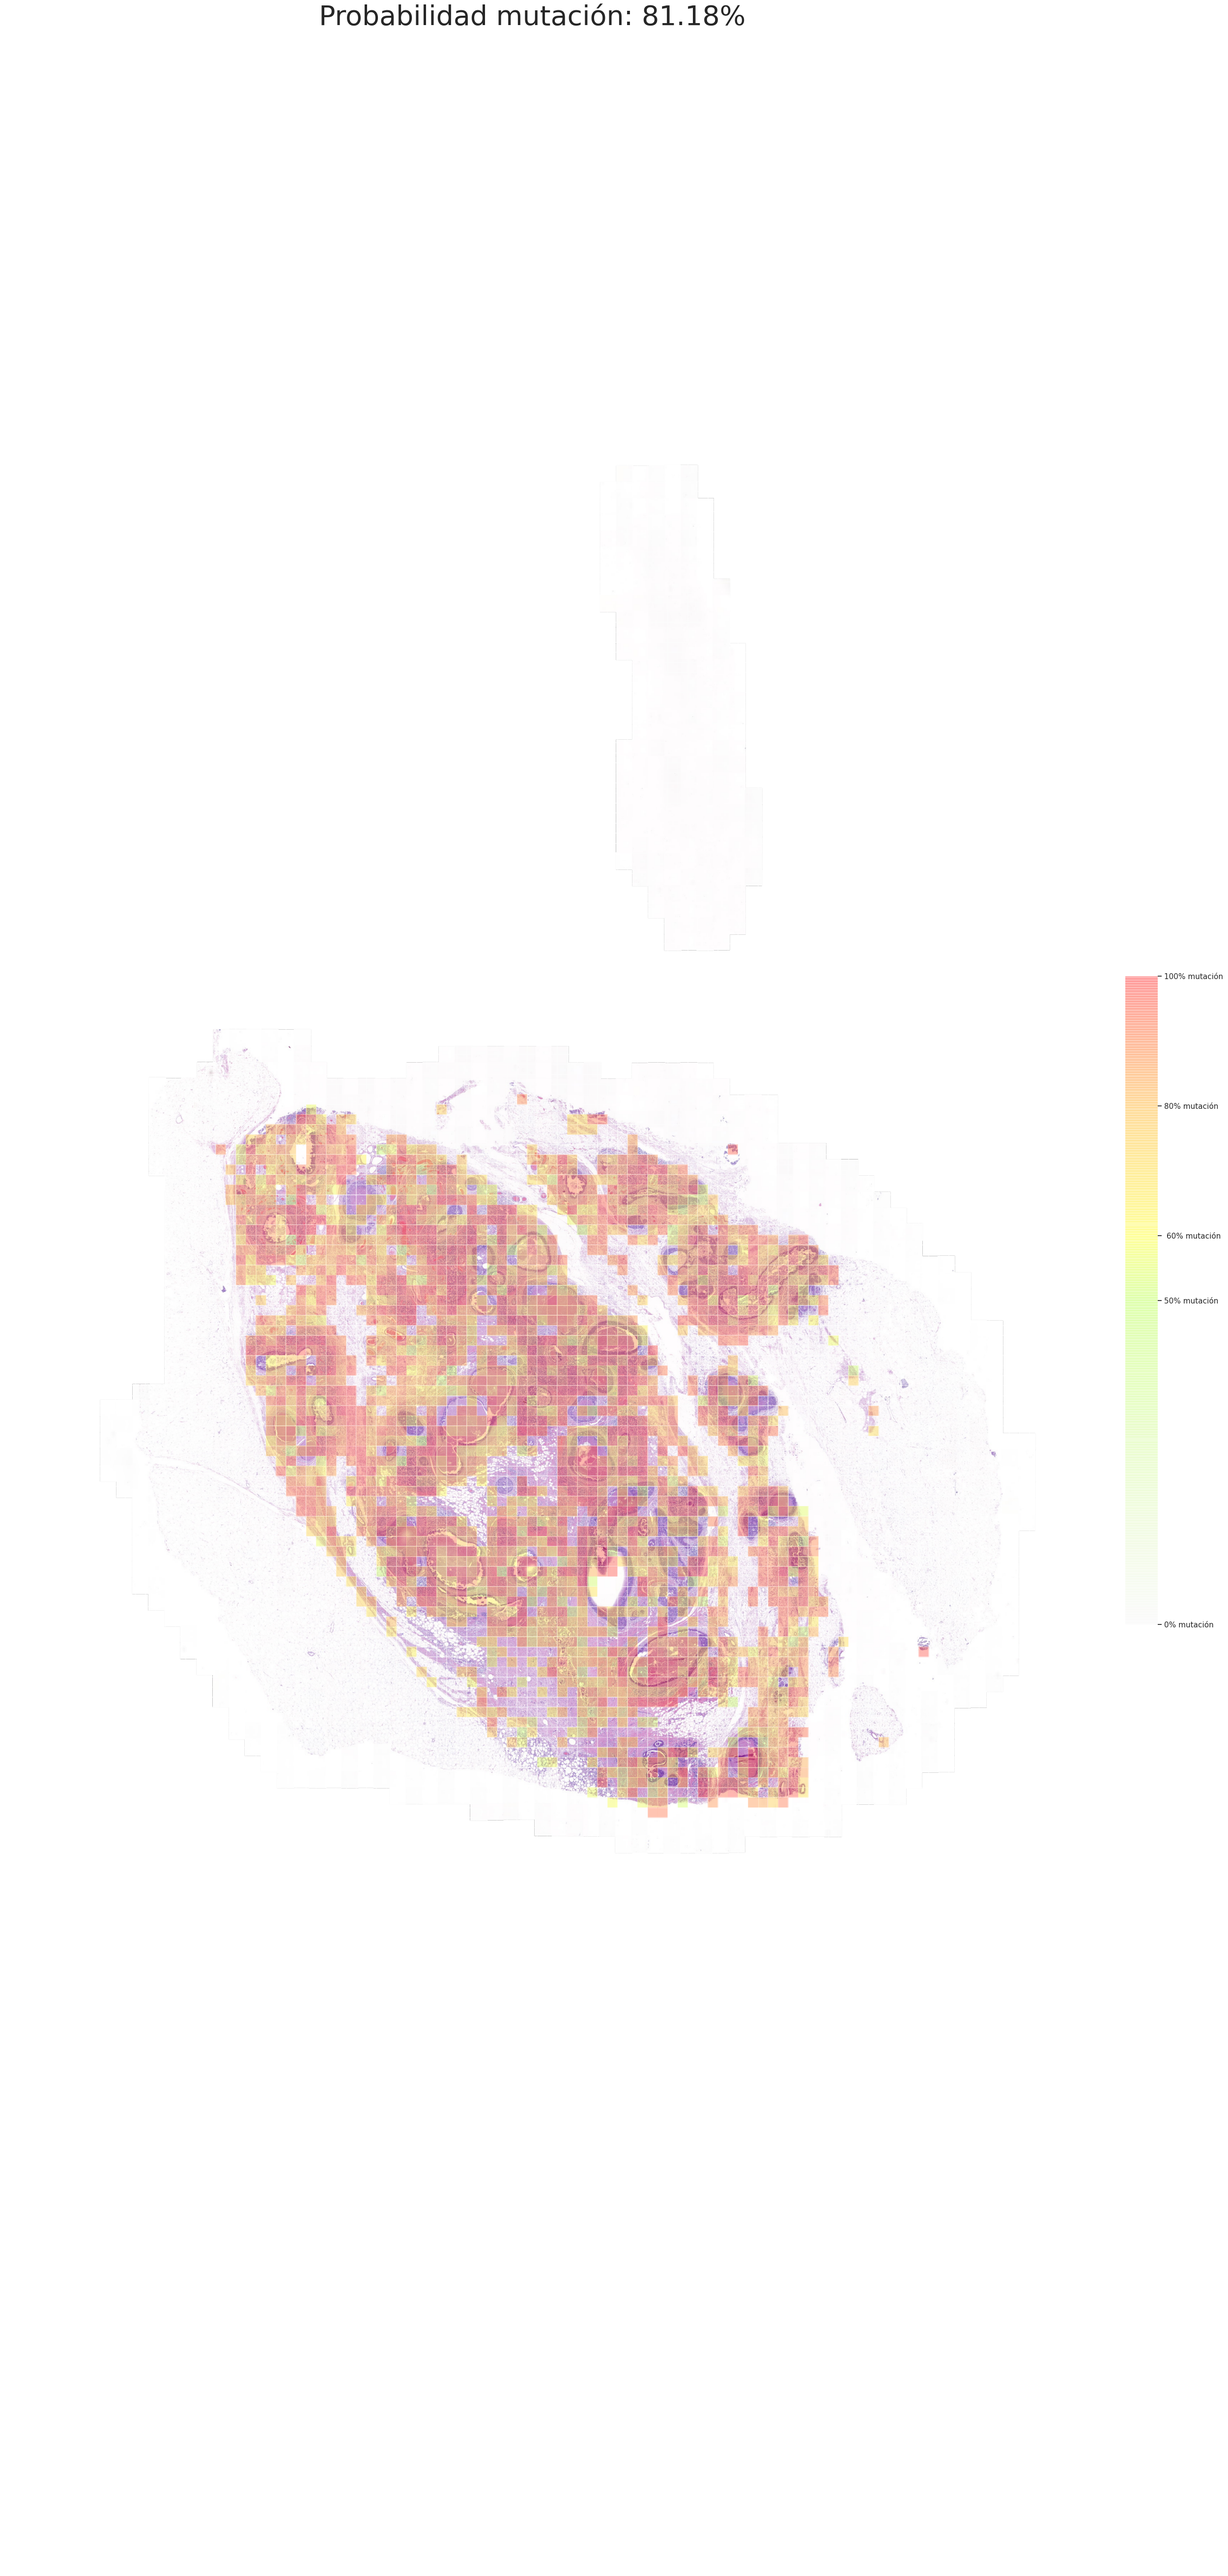
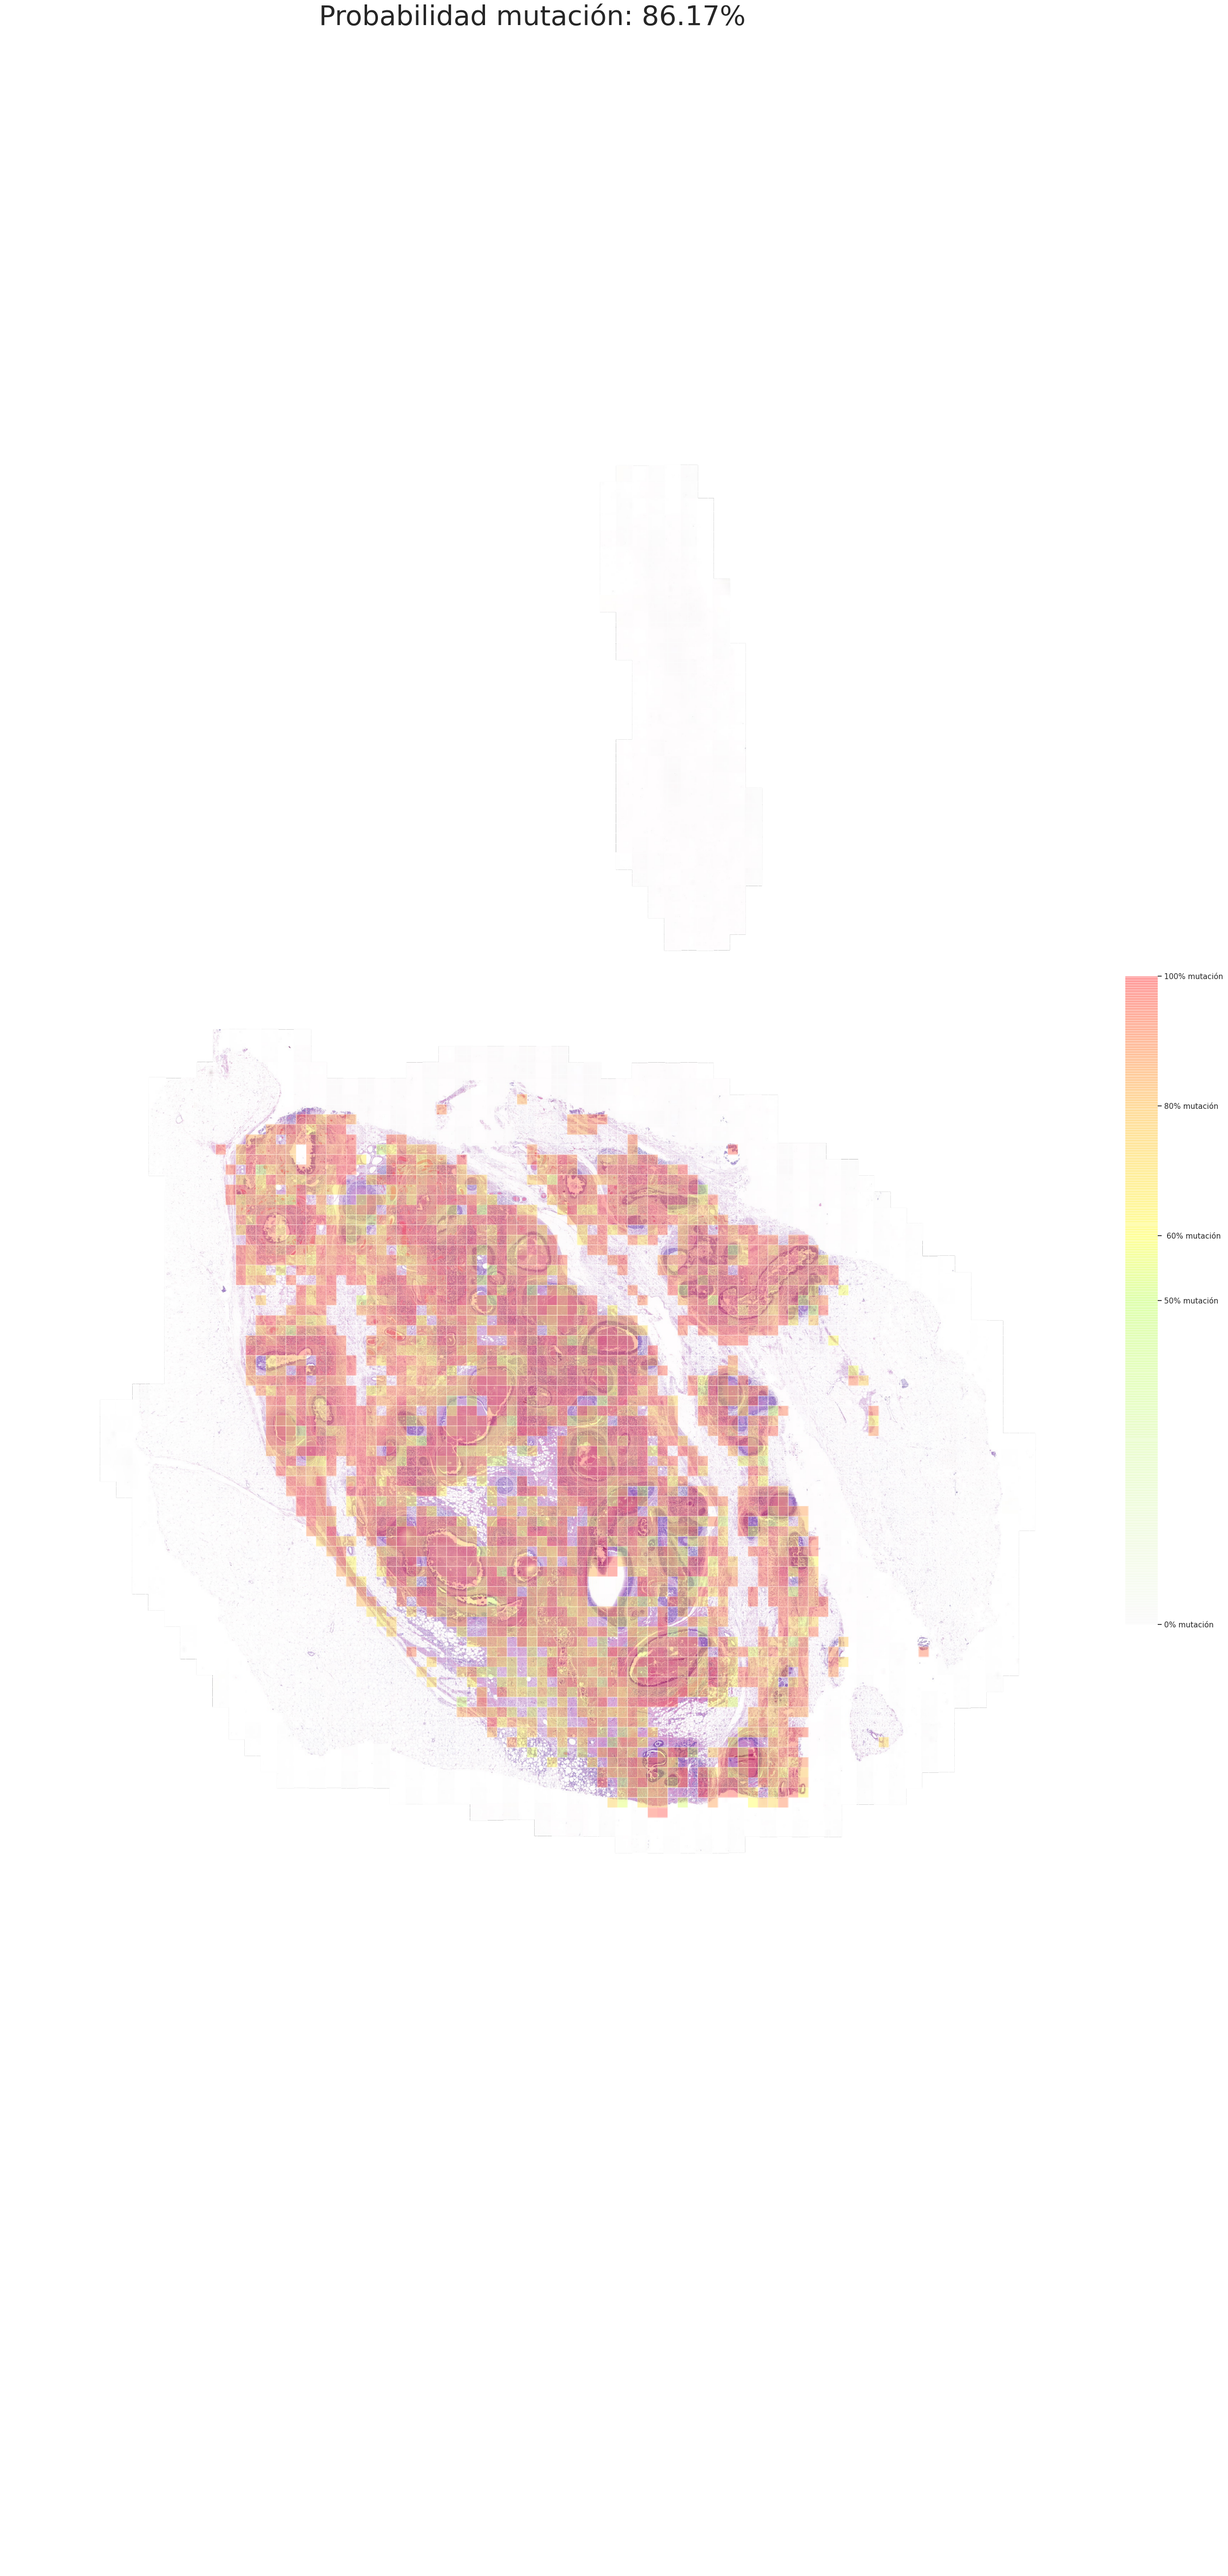
Mapas de calor corregidos.

diff --git a/mutations/image/CNV-D/BRCA/inference/codes/inibica[CNV-D BRCA]inference.py b/mutations/image/CNV-D/BRCA/inference/codes/inibica[CNV-D BRCA]inference.py
@@ -27,7 +27,7 @@ path = '/home/avalderas/img_slides/mutations/image/CNV-D/BRCA/inference/models/m
 model = load_model(path)
 
 """ Se abre WSI especificada y extraemos el paciente del que se trata """
-path_wsi = '/media/proyectobdpath/PI0032WEB/P158-HE-270-IX_v2.mrxs'
+path_wsi = '/media/proyectobdpath/PI0032WEB/P007-HE-140-A2_v2.mrxs'
 wsi = openslide.OpenSlide(path_wsi)
 patient_id = path_wsi.split('/')[4][:4]
 

diff --git a/mutations/image/CNV-A/ERBB2/inference/codes/inibica[CNV-A ERBB2]inference.py b/mutations/image/CNV-A/ERBB2/inference/codes/inibica[CNV-A ERBB2]inference.py
@@ -26,7 +26,7 @@ path = '/home/avalderas/img_slides/mutations/image/CNV-A/ERBB2/inference/models/
 model = load_model(path)
 
 """ Se abre WSI especificada y extraemos el paciente del que se trata """
-path_wsi = '/media/proyectobdpath/PI0032WEB/P005-HE-047-6_v2.mrxs'
+path_wsi = '/media/proyectobdpath/PI0032WEB/P020-HE-331-8_v2.mrxs'
 wsi = openslide.OpenSlide(path_wsi)
 patient_id = path_wsi.split('/')[4][:4]
 

diff --git a/mutations/image/SNV/TP53/inference/codes/inibica[SNV TP53]inference.py b/mutations/image/SNV/TP53/inference/codes/inibica[SNV TP53]inference.py
@@ -28,7 +28,7 @@ path = '/home/avalderas/img_slides/mutations/image/SNV/TP53/inference/models/mod
 model = load_model(path)
 
 """ Se abre WSI especificada y extraemos el paciente del que se trata """
-path_wsi = '/media/proyectobdpath/PI0032WEB/P002-HE-033-2_v2.mrxs'
+path_wsi = '/media/proyectobdpath/PI0032WEB/P004-HE-042-1_v2.mrxs'
 wsi = openslide.OpenSlide(path_wsi)
 patient_id = path_wsi.split('/')[4][:4]
 
